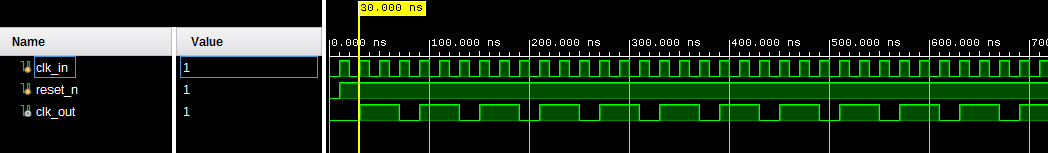
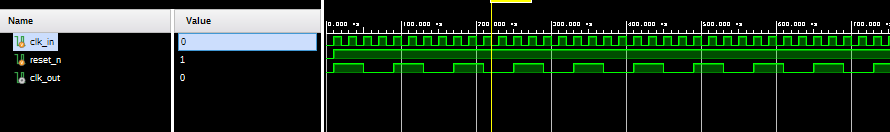
updated files

diff --git a/README.md b/README.md
@@ -6,12 +6,11 @@ The circuit will divide your clock by 4. using 2 Flip Flops.
 
 Circuit: 
 
-
+![image](https://user-images.githubusercontent.com/22993146/112426903-c4047200-8d5e-11eb-801e-04d4ad1e67f9.png)
 
 
 Waveform:
 
-![image](https://user-images.githubusercontent.com/22993146/112762493-8d0fb400-901d-11eb-9aa5-a821e41928ae.png)
-
+![image](https://user-images.githubusercontent.com/22993146/112427048-fada8800-8d5e-11eb-9047-f9ab0412b8b7.png)
 
 
